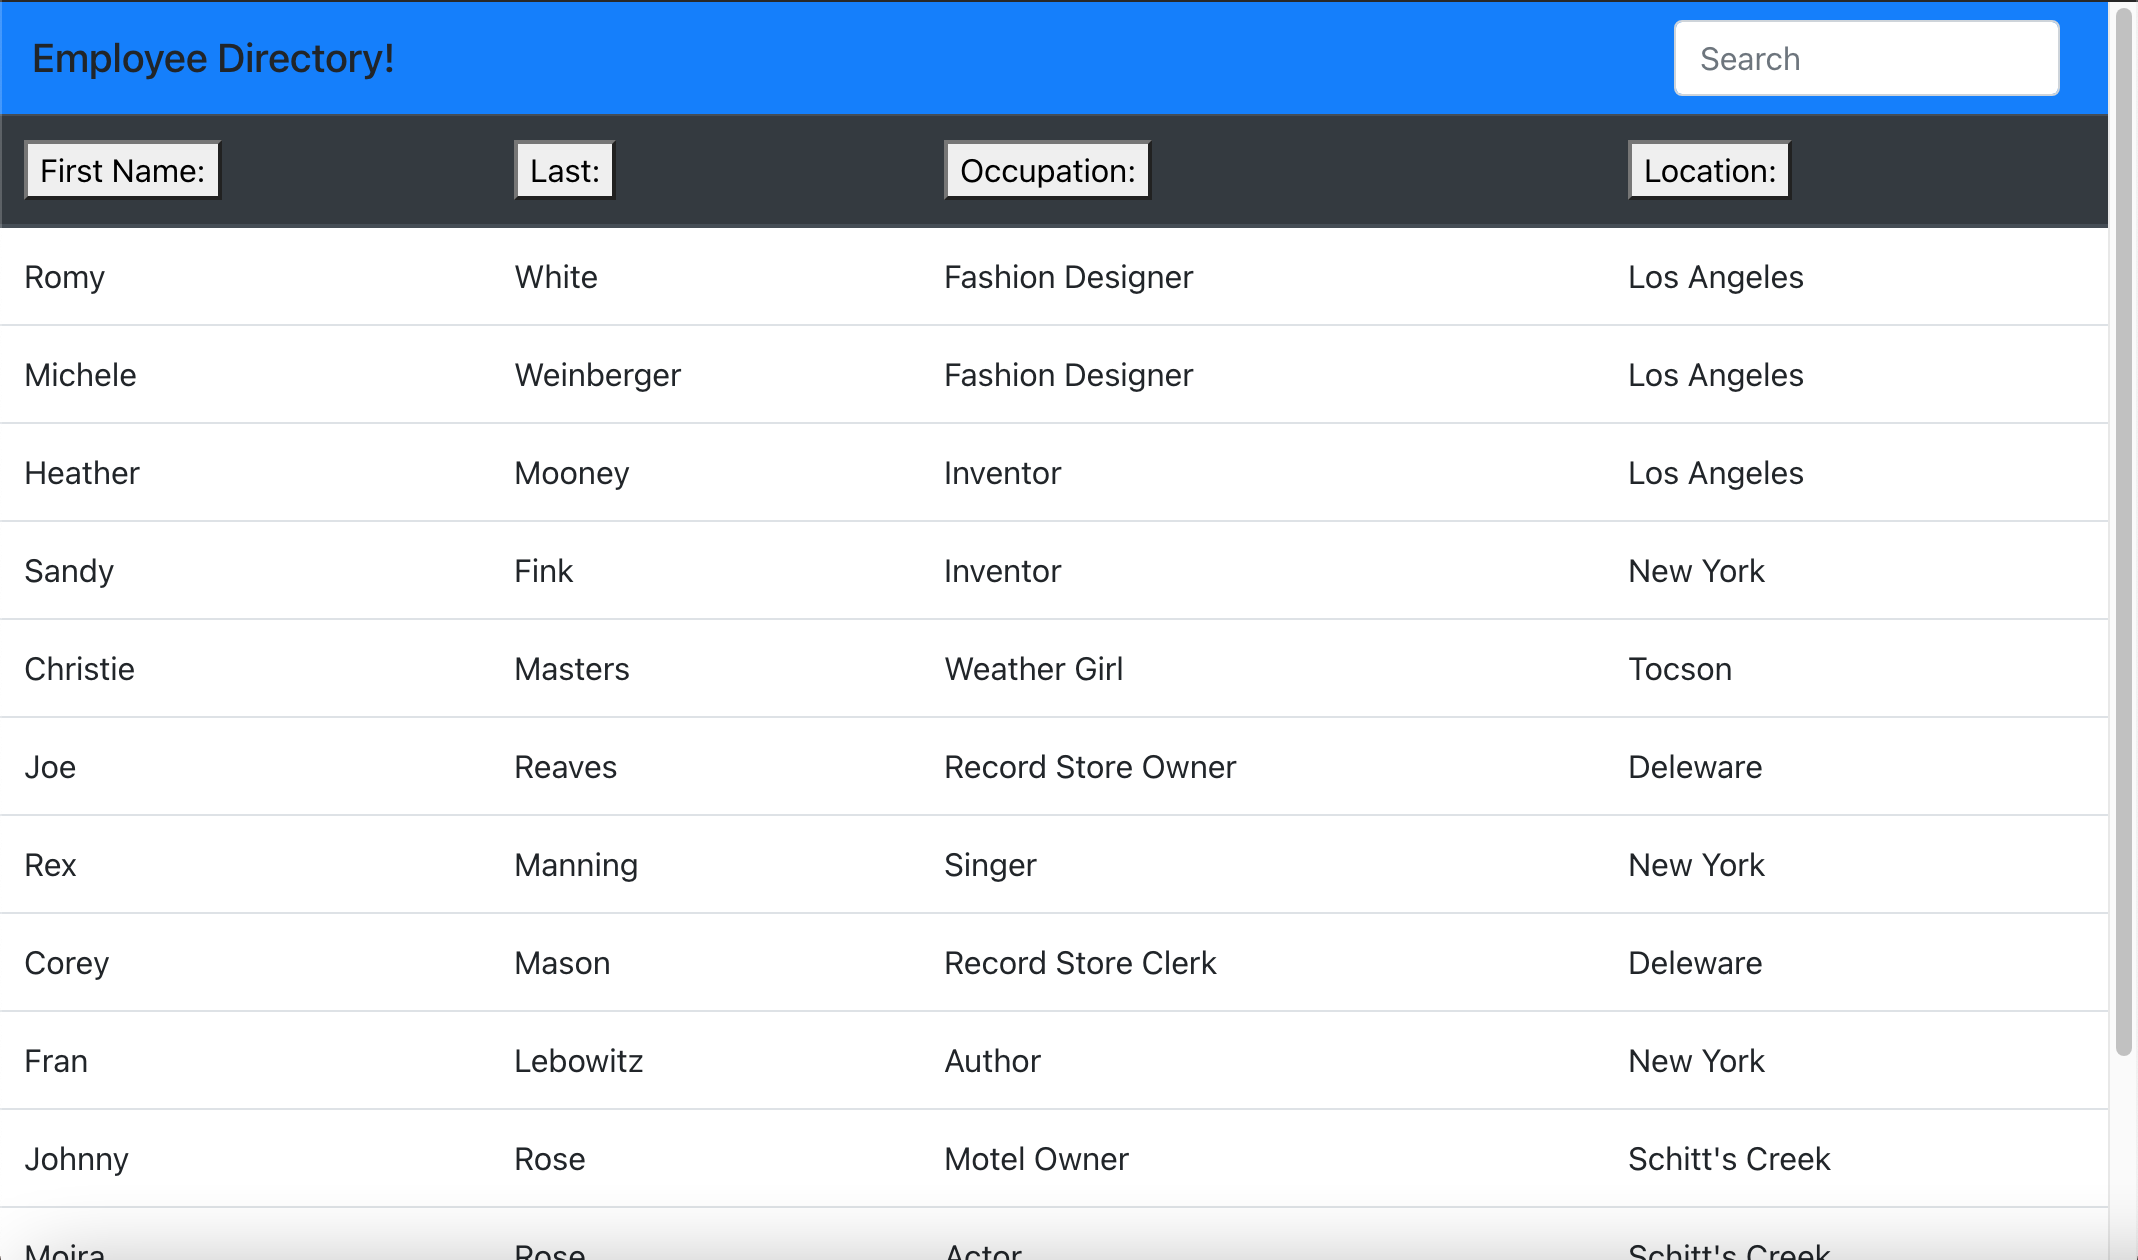
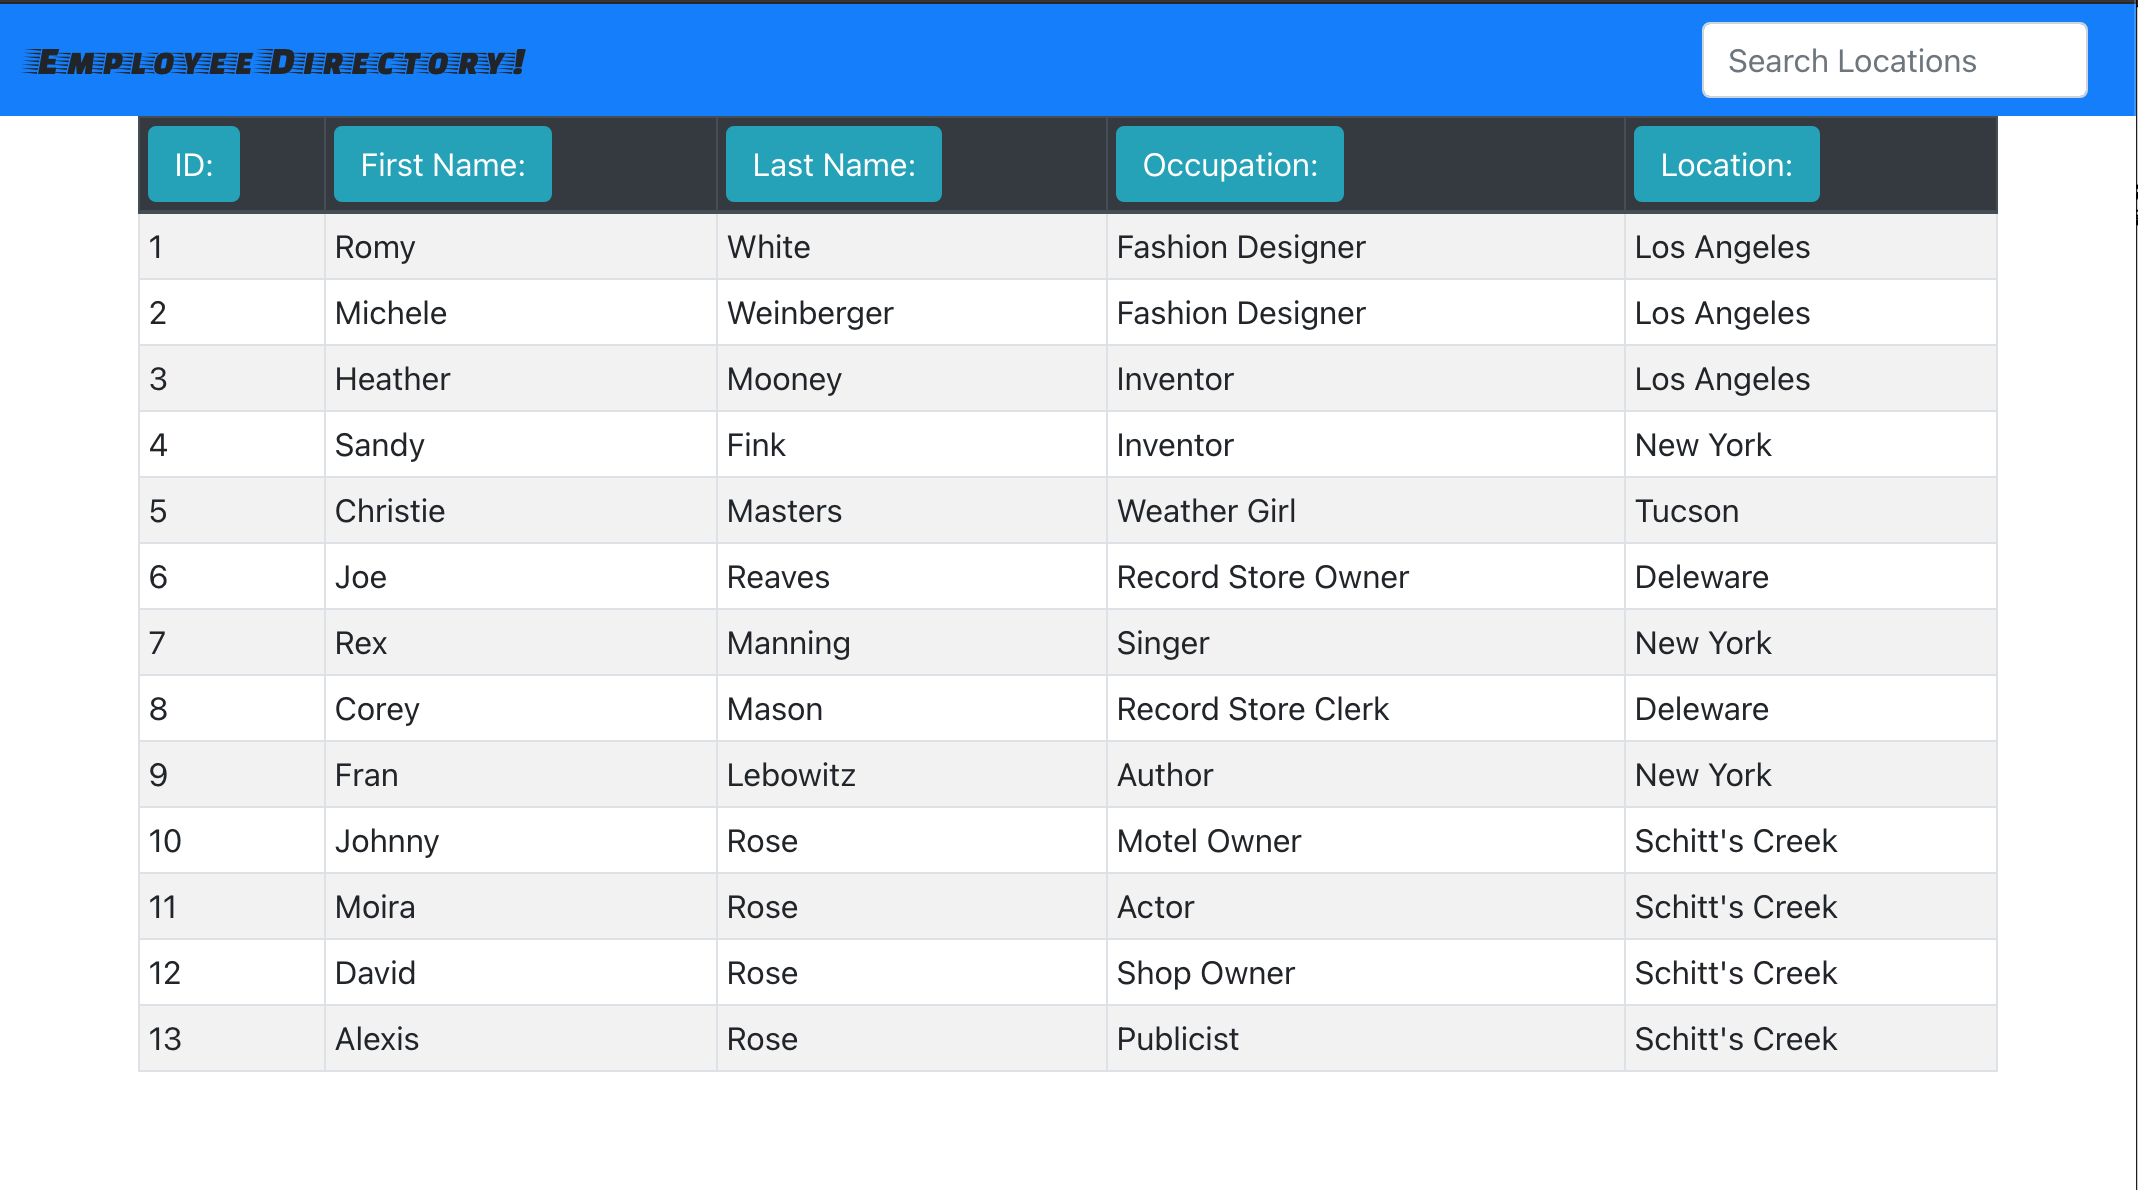
Final Adjustments to styling

diff --git a/src/App.js b/src/App.js
@@ -1,7 +1,6 @@
 import React, { Component } from "react";
 import employees from "./data/employees.json";
 import NavBar from "./components/NavBar/NavBar"
-//import EmployeeTable from "./components/EmployeeTable/EmployeeTable";
 import TableHeader from "./components/TableHeader/TableHeader";
 import TableBody from "./components/TableBody/TableBody";
 
@@ -52,21 +51,27 @@ class App extends Component {
       <NavBar 
       location={this.state.location}
       handleInputChange={this.handleInputChange} />
-      <table className="table table-sm table-striped">
-      <TableHeader 
-      employee={employees}
-      sortID={this.sortID}
-      sortFirstName={this.sortFirstName}
-      sortLastName={this.sortLastName}
-      sortOccupation={this.sortOccupation}
-      sortLocation={this.sortLocation}/>
-      <tbody>
-        {this.state.employees.map((employee) => (
-          <TableBody employee={employee} />
-        ))}
-      </tbody>
-      </table>
+      <div className="container">
+        <div className="row">
+          <div className="col-12">
+          <table className="table table-sm table-striped table-bordered">
+          <TableHeader 
+            employee={employees}
+            sortID={this.sortID}
+            sortFirstName={this.sortFirstName}
+            sortLastName={this.sortLastName}
+            sortOccupation={this.sortOccupation}
+            sortLocation={this.sortLocation}/>
+          <tbody>
+            {this.state.employees.map((employee) => (
+            <TableBody employee={employee} />
+            ))}
+          </tbody>
+          </table>
+          </div>
+        </div>
       </div>
+    </div>
       
     )
   }

diff --git a/src/components/TableHeader/TableHeader.js b/src/components/TableHeader/TableHeader.js
@@ -2,22 +2,22 @@ import React from "react";
 
 function TableHeader(props) {
     return (
-        <thead>
+        <thead className="thead-dark">
             <tr>
             <th scope="col"><button
-                type="button"
+                type="button" className="btn btn-info"
                 onClick={() => props.sortID()}>ID:</button></th>
                 <th scope="col"><button
-                type="button"
+                type="button" className="btn btn-info"
                 onClick={() => props.sortFirstName()}>First Name:</button></th>
                 <th scope="col"><button
-                type="button"
-                onClick={() => props.sortLastName()}>Last:</button></th>
+                type="button" className="btn btn-info"
+                onClick={() => props.sortLastName()}>Last Name:</button></th>
                 <th scope="col"><button
-                type="button"
+                type="button" className="btn btn-info"
                 onClick={() => props.sortOccupation()}>Occupation:</button></th>
                 <th scope="col"><button
-                type="button"
+                type="button" className="btn btn-info"
                 onClick={() => props.sortLocation()}>Location:</button></th>
                 
             </tr>

diff --git a/src/components/NavBar/NavBar.js b/src/components/NavBar/NavBar.js
@@ -1,10 +1,11 @@
 import React from "react";
+import '../NavBar/NavBar.css'
 
 function NavBar(props) {
 return(
     <div className="contatiner"> 
         <nav className="navbar navbar-primary bg-primary justify-content-between">
-            <span className="navbar-brand mb-0 h1"> Employee Directory!</span>
+            <span className="navbar-brand mb-0 h1" id="heading"> Employee Directory!</span>
             <form className="form-inline">
                 <input 
                 className="form-control mr-sm-2" 

diff --git a/src/components/NavBar/NavBar.css b/src/components/NavBar/NavBar.css
@@ -1,0 +1,5 @@
+@import url('https://fonts.googleapis.com/css2?family=Faster+One&display=swap');
+
+#heading {
+    font-family: 'Faster One', cursive;
+}

diff --git a/README.md b/README.md
@@ -8,7 +8,6 @@ This employee directory is an application that allows the user to load a random 
 ![Badge:](https://img.shields.io/badge/License-mit-brightgreen)
 
 ![**Screenshot of Application:**](./public/ss1.png)
-![](./public/ss2.png)
 
 
 ## Table of Contents
